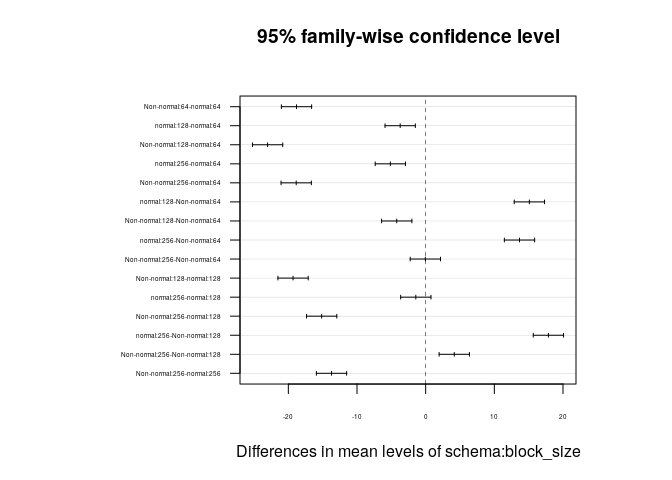
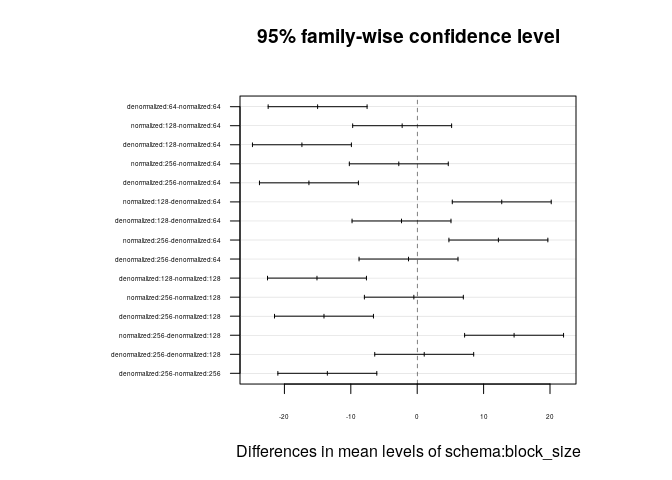
.

diff --git a/reports/support/tex/Project_Paper.tex b/reports/support/tex/Project_Paper.tex
@@ -575,24 +575,13 @@ Hue was used to interact with the EMR cluster and run Hive scripts.
 
 \section{Study Design}
 
-In this study, the impact of data warehouse normalization and
- tuning the HDFS configuration on query execution time will be investigated.
-Both schemas presented in Section \ref{DataWarehouseDevelopment} were used in this study.
-The HDFS configuration was tuned by changing the HDFS block size.
+In this study, we will investigate the impact of schema normalization and
+ EMR cluster size on the performance of a read query.
+Both schemas presented in Section \ref{DataWarehouseDevelopment} were tested on
+ EMR clusters with 3 nodes and 5 nodes.
+This is a two-way ANOVA where ERM cluster size and schema are the
+ explanatory factor variables and the response variable is query execution time.
 
-Add something from \cite{OptimizeHadoop} here?
-
-This study is designed as a one-way ANOVA with repeated measures.
-The response variable is query execution time.
-The two schemas are treated as subjects and the MapReduce block size is the factor with
- levels of 64 MB, 128 MB, and 256 MB \cite{Sleuth}.
-The default block size on AWS EMR is 128
- MB\footnote{https://docs.aws.amazon.com/emr/latest/ReleaseGuide/emr-hdfs-config.html}.
-A query was designed for each schema with each query returning the same set of data.
-The queries were executed for each combination of schema and block size
- on the same EMR cluster 30 times.
-
-Add something on power analysis?
 
 \section{Results}
 

diff --git a/results_analysis/analysis.md b/results_analysis/analysis.md
@@ -33,22 +33,58 @@ delta.A=4, delta.B=2, sigma.A=2, sigma.B=2)
 
 This is assuming that schema is the main driving factor of variation.
 
-    ## # A tibble: 6 x 6
-    ## # Groups:   schema [?]
-    ##   schema     block_size mean_time median_time IQR_time variance
-    ##   <fct>      <fct>          <dbl>       <dbl>    <dbl>    <dbl>
-    ## 1 normal     64              124.        124.     5.04    14.1 
-    ## 2 normal     128             120.        119.     5.17    16.9 
-    ## 3 normal     256             119.        118.     2.58     6.50
-    ## 4 Non-normal 64              105.        105.     2.14     3.50
-    ## 5 Non-normal 128             101.        101.     2.31     3.60
-    ## 6 Non-normal 256             105.        105.     1.11     8.13
+    ## # A tibble: 12 x 7
+    ## # Groups:   server_num, schema [?]
+    ##    server_num  schema   block_size mean_time median_time IQR_time variance
+    ##    <fct>       <fct>    <fct>          <dbl>       <dbl>    <dbl>    <dbl>
+    ##  1 three_nodes normali… 64             124.        124.      5.04    14.1 
+    ##  2 three_nodes normali… 128            120.        119.      5.17    16.9 
+    ##  3 three_nodes normali… 256            119.        118.      2.58     6.50
+    ##  4 three_nodes denorma… 64             105.        105.      2.14     3.50
+    ##  5 three_nodes denorma… 128            101.        101.      2.31     3.60
+    ##  6 three_nodes denorma… 256            105.        105.      1.11     8.13
+    ##  7 five_nodes  normali… 64              91.9        92.4     2.81    11.5 
+    ##  8 five_nodes  normali… 128             91.1        91.0     5.25    18.1 
+    ##  9 five_nodes  normali… 256             91.5        92.3     5.34    19.3 
+    ## 10 five_nodes  denorma… 64              80.7        81.2    10.3     37.0 
+    ## 11 five_nodes  denorma… 128             80.2        78.8    10.9     34.4 
+    ## 12 five_nodes  denorma… 256             78.1        75.8     4.36    30.1
 
 ## 2-Way ANOVA Profile Plot
 
-Profile plot is colored by schema.
+``` r
+ggplot(data = grouped, aes(y = mean_time, x = block_size, color = schema)) +
+  geom_point() +
+  geom_errorbar(aes(ymin = mean_time - sqrt(variance), ymax = mean_time + sqrt(variance)), width = .1) +
+  facet_grid( ~ server_num) + 
+  xlab('HDFS Block Size (MB)') +
+  ylab('Query Time (seconds)') +
+  ggtitle('Query Time for Schemas, MapReduce Block Size, and Cluster Size')
+```
+
+![](analysis_files/figure-gfm/unnamed-chunk-1-1.png)<!-- -->
+
+## 2-Way ANOVA Profile Plot
+
+Profile plot is colored by
+    schema.
 
 ![](analysis_files/figure-gfm/profile_plot-1.png)<!-- -->
+
+    ##         schema block_size  N      Mean       SD        SE    Min     Max
+    ## 1   normalized         64 60 107.95063 16.57147 0.2761911 82.274 131.555
+    ## 2 denormalized         64 60  92.95123 13.12597 0.2187662 72.634 108.475
+    ## 3   normalized        128 60 105.68287 15.30589 0.2550981 81.769 131.409
+    ## 4 denormalized        128 60  90.58687 11.33662 0.1889436 72.196 105.065
+    ## 5   normalized        256 60 105.17747 14.24803 0.2374671 81.762 126.534
+    ## 6 denormalized        256 60  91.64200 14.29231 0.2382052 72.283 118.638
+    ##        IQR
+    ## 1 31.82175
+    ## 2 24.09900
+    ## 3 28.29100
+    ## 4 21.97575
+    ## 5 25.82625
+    ## 6 29.34050
 
 ## Fit the ANOVA on the Data
 
@@ -58,18 +94,18 @@ variation.
     ## 
     ## Error: block_size
     ##           Df Sum Sq Mean Sq F value Pr(>F)
-    ## Residuals  2  485.8   242.9               
+    ## Residuals  2  384.2   192.1               
     ## 
     ## Error: block_size:schema
-    ##           Df Sum Sq Mean Sq F value Pr(>F)  
-    ## schema     1  13434   13434   93.23 0.0106 *
-    ## Residuals  2    288     144                 
+    ##           Df Sum Sq Mean Sq F value Pr(>F)   
+    ## schema     1  19037   19037   829.9 0.0012 **
+    ## Residuals  2     46      23                  
     ## ---
     ## Signif. codes:  0 '***' 0.001 '**' 0.01 '*' 0.05 '.' 0.1 ' ' 1
     ## 
     ## Error: Within
     ##            Df Sum Sq Mean Sq F value Pr(>F)
-    ## Residuals 174   1527   8.778
+    ## Residuals 354  71801   202.8
 
 ## Plot Multiple Comparisons
 
